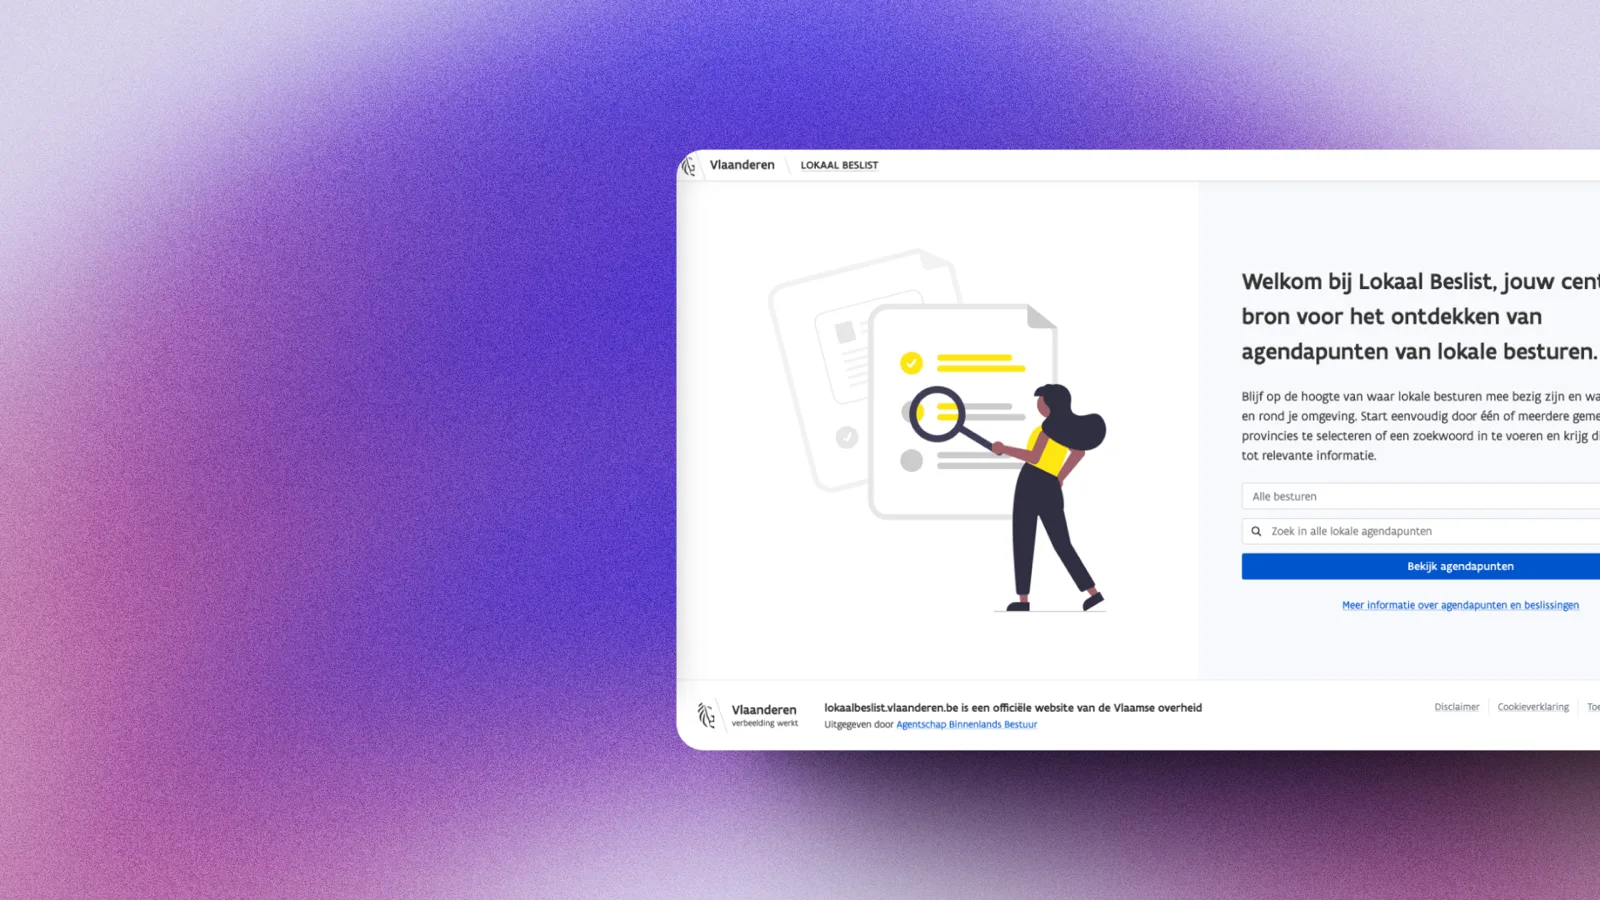
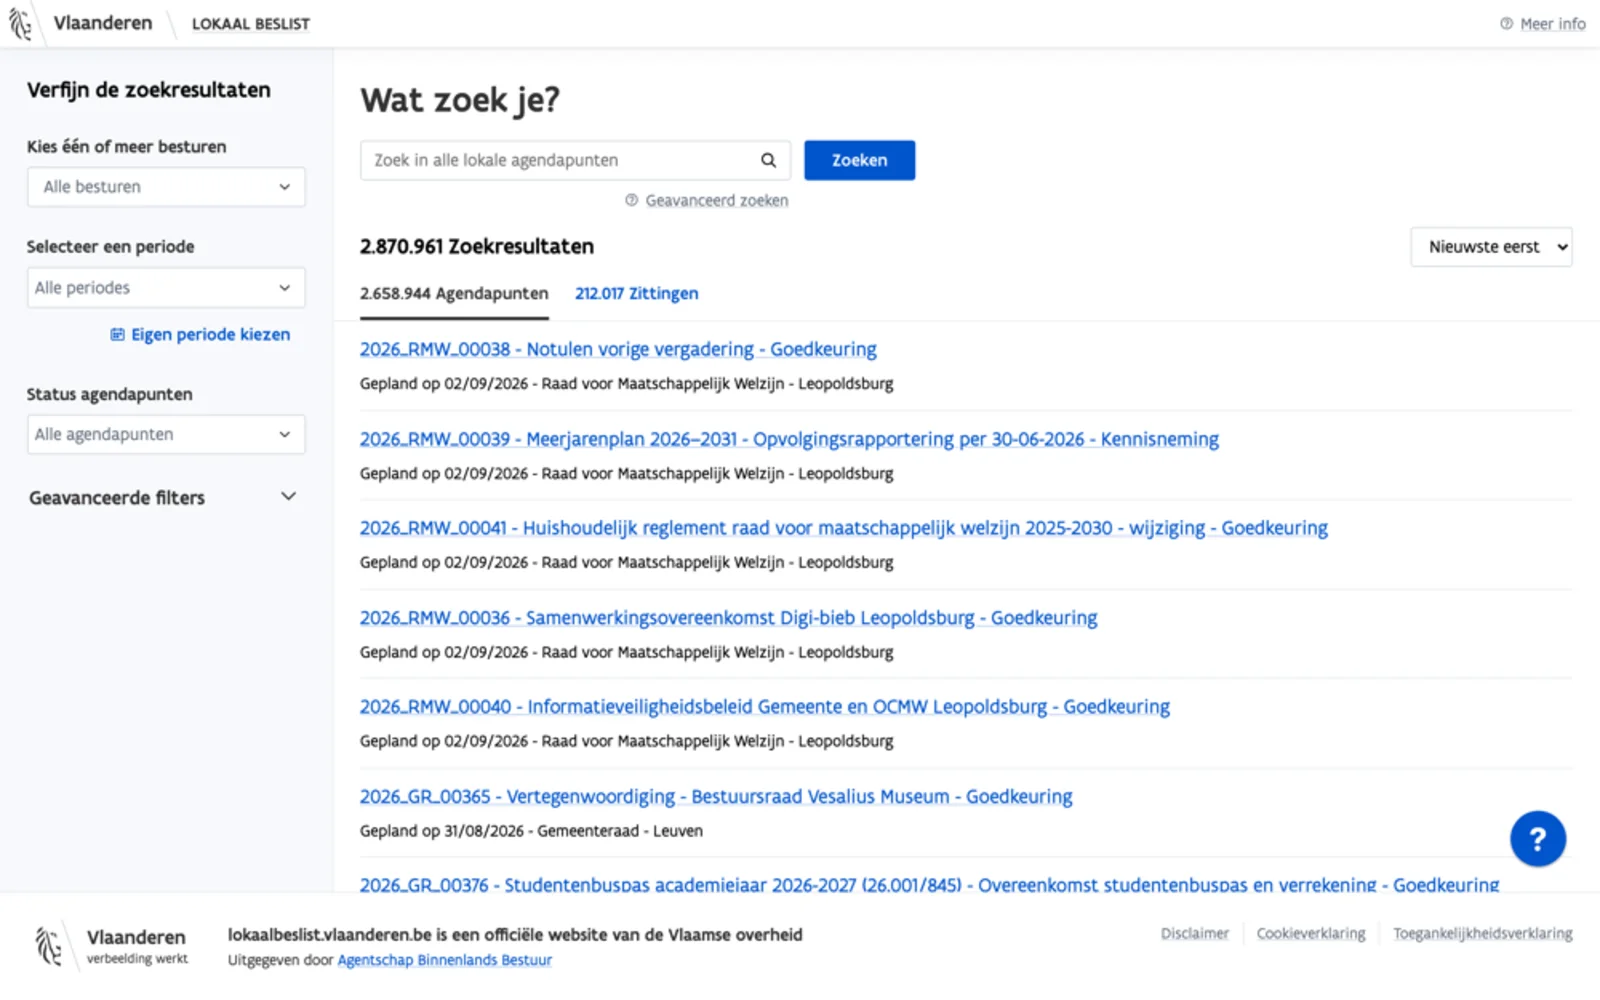
Use actual product in the cards, not dressed-up marketing pages
The Kaedim, BeeDee and Lokaal Beslist card images were all the same trick:
a screenshot of the company's marketing homepage, in a browser frame, on an
invented gradient. None of them showed the product.

Lokaal Beslist is publicly live, so its card is now the real search view:
the filter sidebar, 2.8 million results, actual agenda items. BeeDee gets
three real app screens on transparency.

Kaedim's product sits behind a login and there is no capture of it anywhere
on this machine, so rather than dress the marketing site up again it takes
the written panel that Euroconsumers uses, and says plainly why there is no
screenshot.

diff --git a/app/data/portfolio.ts b/app/data/portfolio.ts
@@ -178,7 +178,15 @@ export const FEATURED: Featured[] = [
     description:
       "Kaedim turns a brief into 3D that a real team inspects and approves before it ships. I worked both ends of that: the onboarding and progress a customer sees, and the review queue and automated testing the design team leans on.",
     tech: ["Three.js", "WebGL", "Blender MCP"],
-    image: "/images/work/kaedim.webp",
+    spec: {
+      points: [
+        "Onboarding and the customer-facing app, redesigned",
+        "Skeleton loaders, so a slow generation reads as progress",
+        "Bulk uploads where one bad item no longer sinks the batch",
+        "A review queue for the 3D team, and automated asset testing",
+      ],
+      credit: "The product itself sits behind a login, so no screenshot.",
+    },
     regions: { codes: ["us", "gb", "sg"], label: "Team across San Francisco, London and Singapore" },
     lesson:
       "Waiting is a design problem, not a backend one. Nothing about the generation got faster, but a skeleton loader turns a frozen screen into visible progress, and one bad item no longer takes a whole batch down with it. The same idea runs the other way too: failing bad assets automatically means a designer only spends attention on work worth looking at.",
